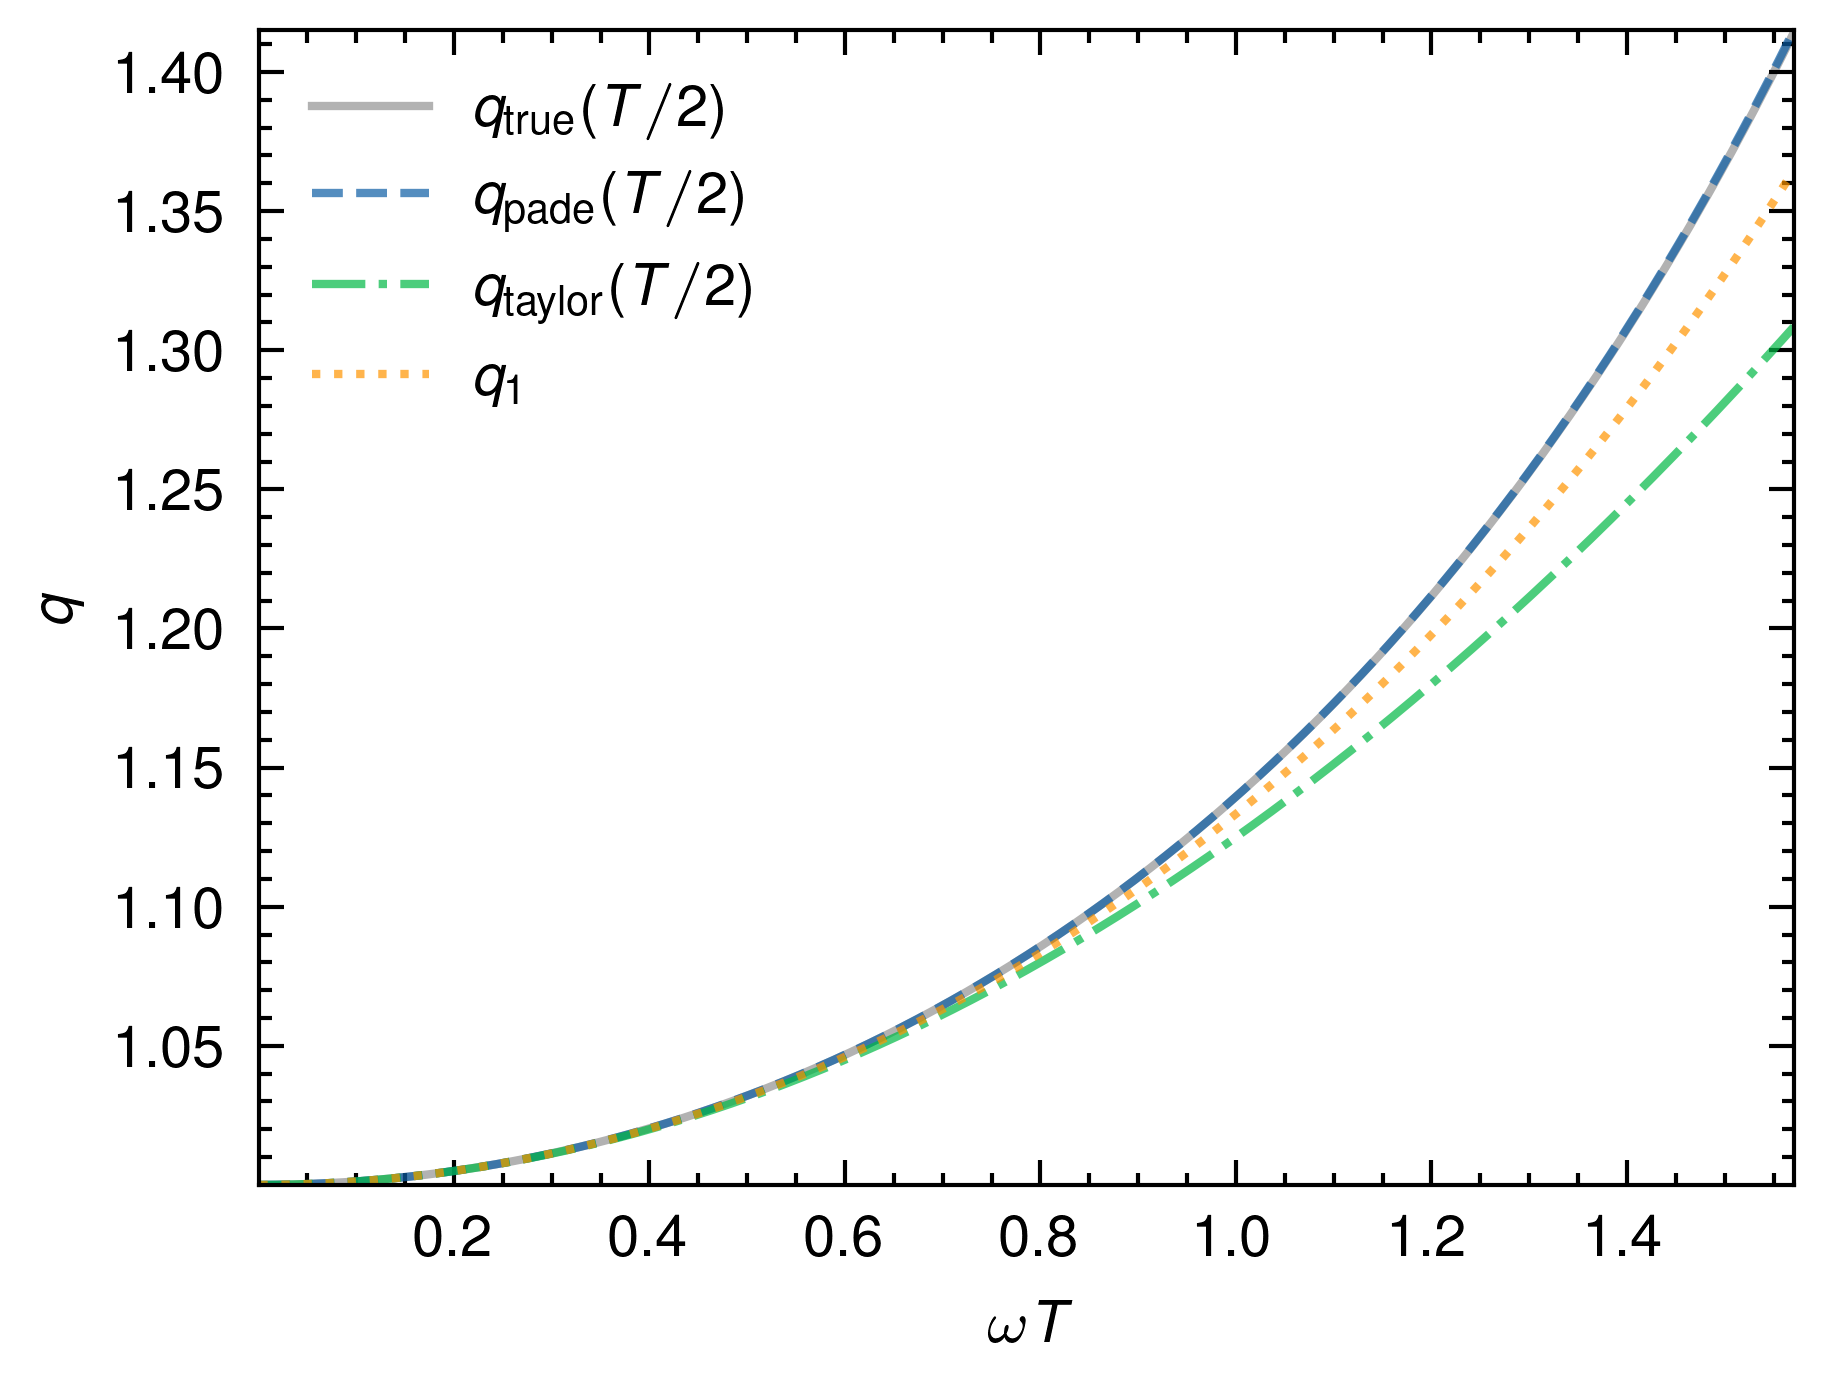
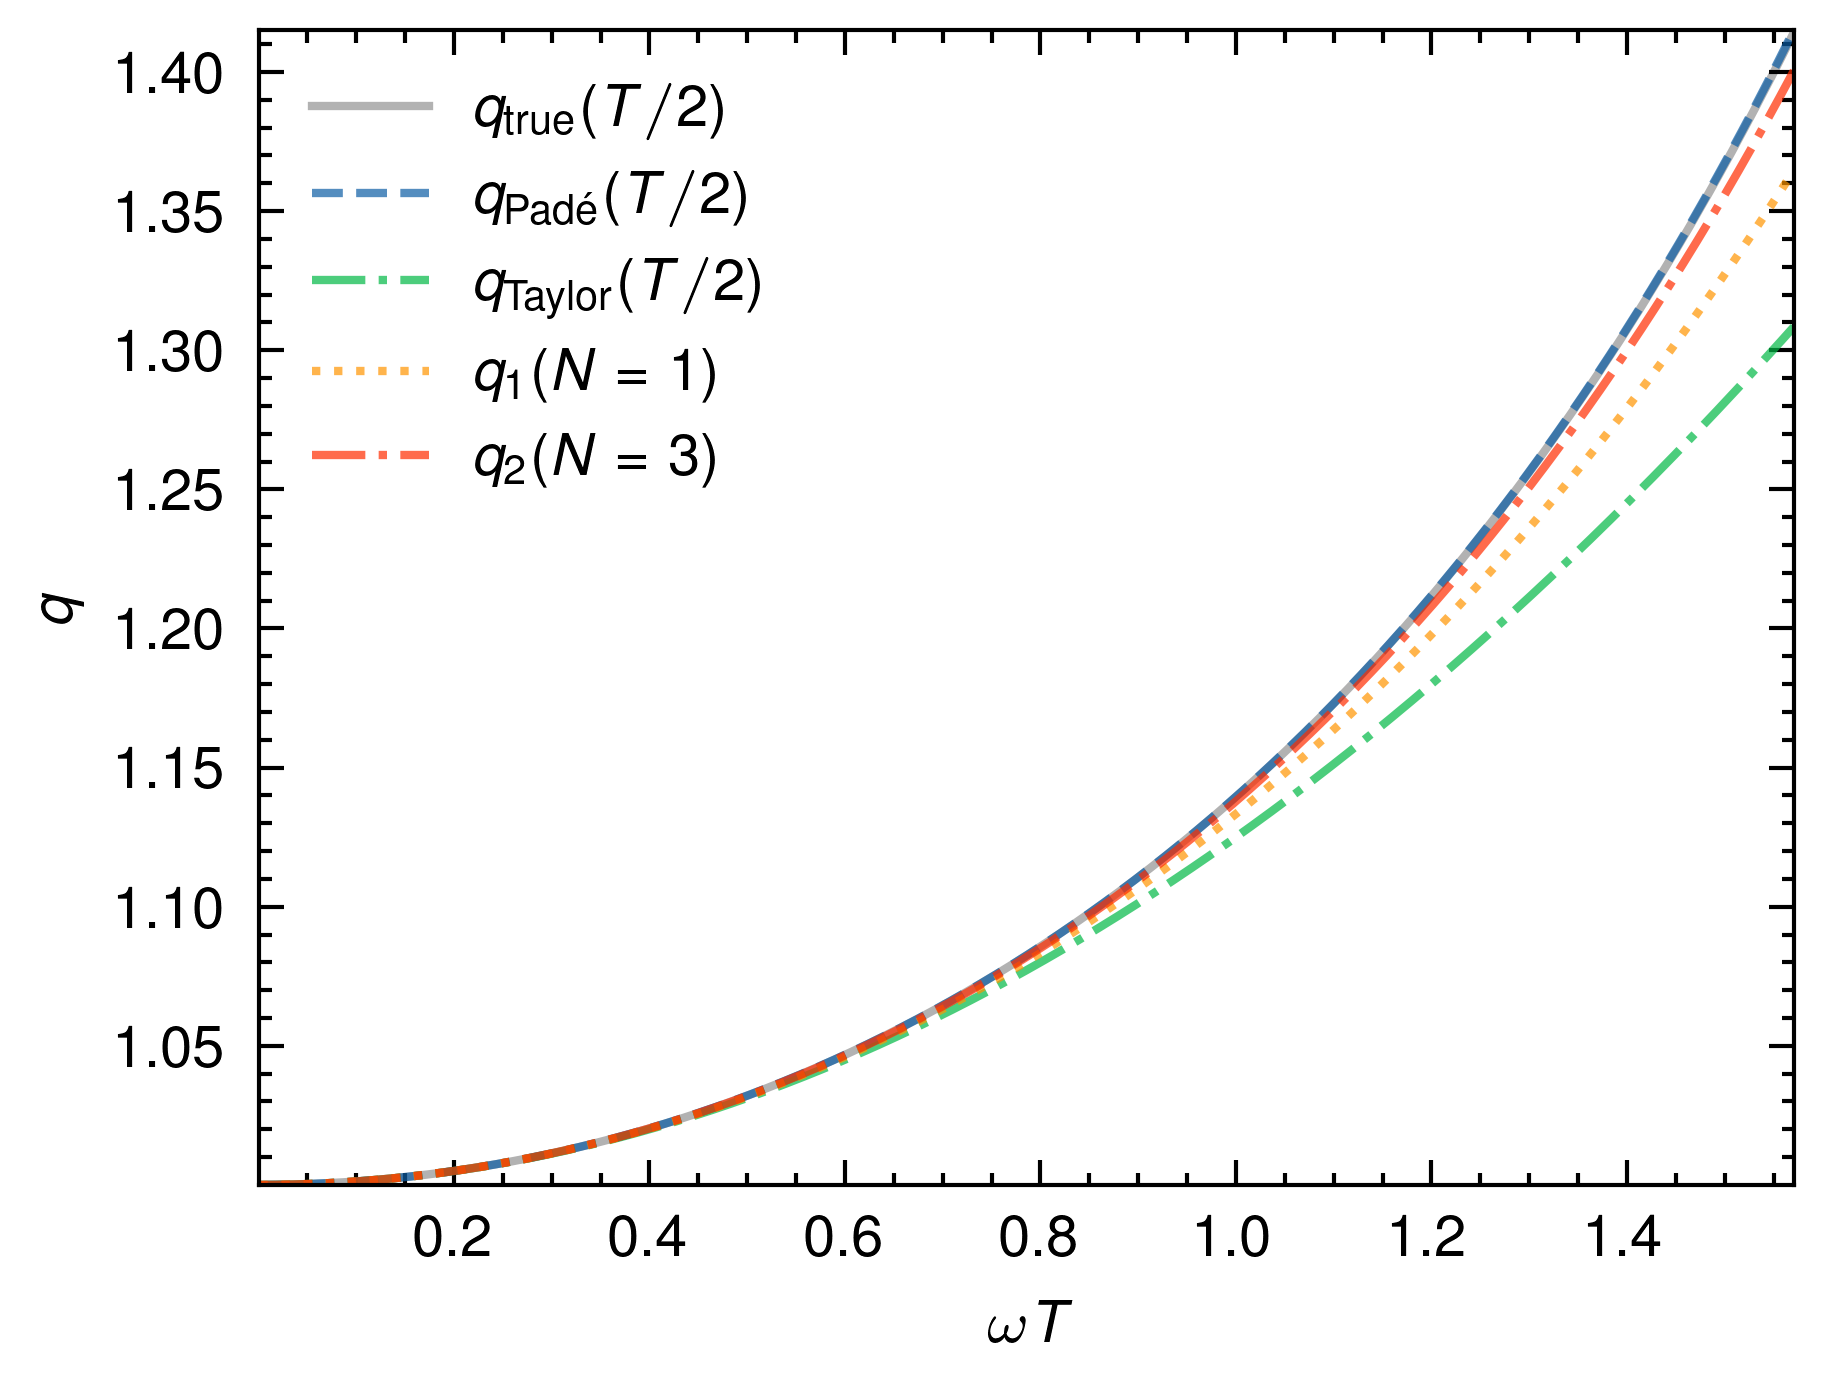
Fix three

diff --git a/theory/pq_plot.py b/theory/pq_plot.py
@@ -11,6 +11,7 @@ y_harmonic = df['harmonic']
 y_pade = df['pade']
 y_taylor = df['taylor']
 y_one = df['one']
+y_three = df['three']
 
 
 # Plot params
@@ -27,8 +28,9 @@ with plt.style.context(["science", "nature"]):
     ax.autoscale(tight=True)
     ax.set(**pparam)
     ax.plot(x, y_harmonic, 'k', label=r'$q_\text{true}(T/2)$', alpha=0.3)
-    ax.plot(x, y_pade, '--', label=r'$q_\text{pade}(T/2)$', alpha=0.7)
-    ax.plot(x, y_taylor, '-.', label=r'$q_\text{taylor}(T/2)$', alpha=0.7)
-    ax.plot(x, y_one, ':', label=r'$q_1$', alpha=0.7)
+    ax.plot(x, y_pade, '--', label=r'$q_\text{Padé}(T/2)$', alpha=0.7)
+    ax.plot(x, y_taylor, '-.', label=r'$q_\text{Taylor}(T/2)$', alpha=0.7)
+    ax.plot(x, y_one, ':', label=r'$q_1(N=1)$', alpha=0.7)
+    ax.plot(x, y_three, '-.', label=r'$q_2(N=3)$', alpha=0.7)
     ax.legend()
     fig.savefig('plot.png', dpi=600, bbox_inches='tight')

diff --git a/theory/src/main.rs b/theory/src/main.rs
@@ -20,7 +20,7 @@ fn main() {
     df.push("pade", Series::new(y_pade));
     df.push("taylor", Series::new(y_taylor));
     df.push("one", Series::new(y_one));
-    df.push("pade2", Series::new(y_pade2));
+    
     df.push("three", Series::new(y_three));
 
     df.print();
@@ -50,6 +50,6 @@ fn one_node(x: f64) -> f64 {
 }
 
 fn three_node(x: f64) -> f64 {
-    (1f64 + x.powi(2) / 16f64 + x.powi(4) / 1024f64)
-        / (1f64 - 3f64 * x.powi(2) / 16f64 + x.powi(4) / 1024f64)
+    (1f64 + x.powi(2) / 32f64 + x.powi(4) / 4096f64)
+        / (1f64 - 3f64 * x.powi(2) / 32f64 + x.powi(4) / 4096f64)
 }
